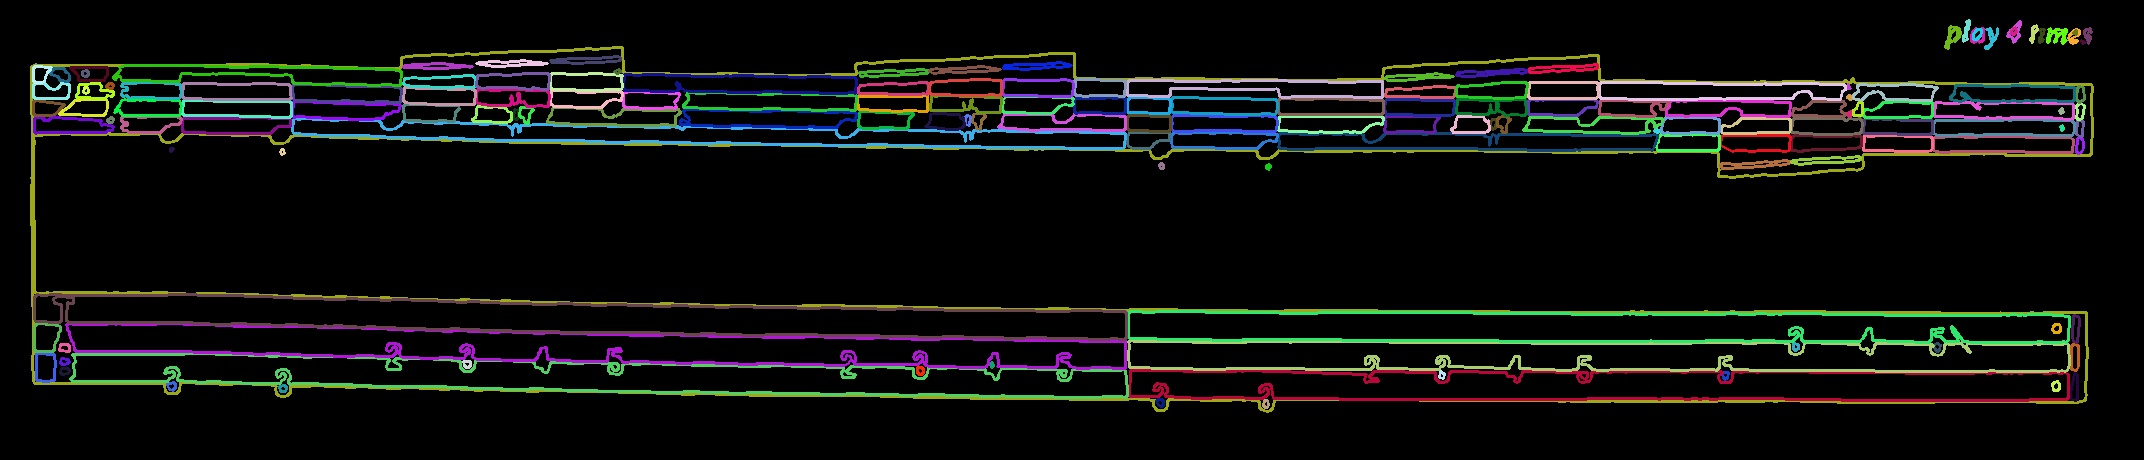
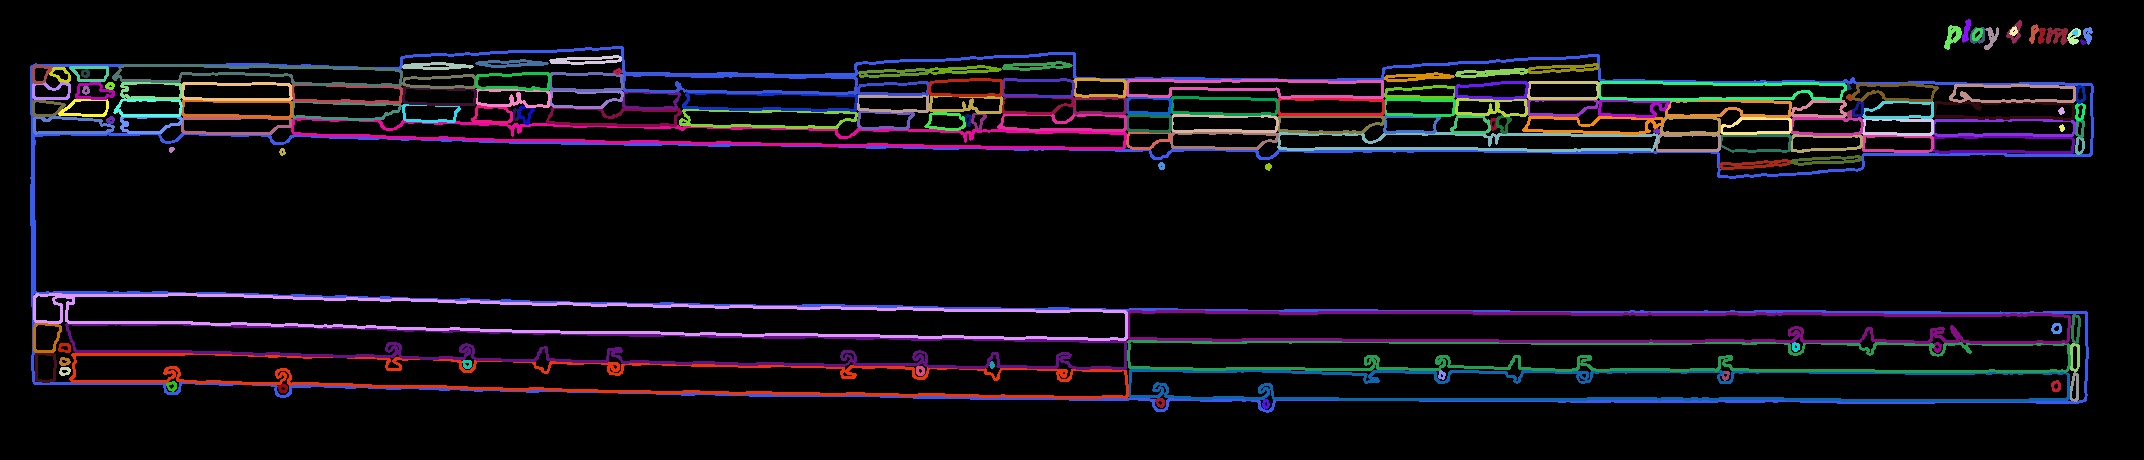
WIP: compatible with python3.7

Changed region(s): [[0.0, 0.0913, 1.0, 0.3957], [0.0, 0.3957, 1.0, 0.913], [0.9062, 0.0304, 1.0, 0.1217]]

diff --git a/blob_detection.py b/blob_detection.py
@@ -1,25 +1,26 @@
+"""
+"""
 import cv2
 import numpy as np
-import sys
 import os
-
-import cPickle as pickle
-
+import pickle
+import sys
 
 TUP_RANGE_PARAMS_RATIO = (0.0, (0, 1), 1000)
 
 
 def get_attribs(params):
-    return [attr for attr in dir(params) if not callable(attr) and not attr.startswith("__")]
+    return [attr for attr in dir(params) if
+            not callable(attr) and not attr.startswith("__")]
 
 
 def print_params(params):
     attribs = get_attribs(params)
     for attr in attribs:
-        print attr, getattr(params, attr)
+        print(attr, getattr(params, attr))
 
 
-class params_for_pickle:
+class ParamsForPickle:
     """Summary
     """
 
@@ -30,7 +31,8 @@ class params_for_pickle:
 
     def __getstate__(self):
         """Return state values to be pickled."""
-        return (dict(zip(self._attr, [getattr(params, attr) for attr in self._attr])))
+        return dict(
+            zip(self._attr, [getattr(params, attr) for attr in self._attr]))
 
     def __setstate__(self, state):
         """Restore state from the unpickled state values."""
@@ -38,7 +40,7 @@ class params_for_pickle:
 
     def create_params(self):
         params = cv2.SimpleBlobDetector_Params()
-        for (attr, value) in self._dict_pickle.iteritems():
+        for (attr, value) in self._dict_pickle.items():
             setattr(params, attr, value)
         return params
 
@@ -69,28 +71,36 @@ def update_TrackBars_From_Params(params, nameWindow, dict_range_params):
         trackbarname_param_min = 'min' + minmax_param
         trackbarname_param_max = 'max' + minmax_param
 
-        current_value, (param_min, param_max), param_remap = dict_range_params.get(minmax_param, TUP_RANGE_PARAMS_RATIO)
+        current_value, (param_min, param_max), param_remap = dict_range_params.get(minmax_param,
+                                                                   TUP_RANGE_PARAMS_RATIO)
         cv2.setTrackbarPos(
             ('%' if param_remap != 1 else '') + trackbarname_param_min,
-            nameWindow, int(getattr(params, trackbarname_param_min) * param_remap)
+            nameWindow,
+            int(getattr(params, trackbarname_param_min) * param_remap)
         )
 
         cv2.setTrackbarPos(
             ('%' if param_remap != 1 else '') + trackbarname_param_max,
-            nameWindow, int(getattr(params, trackbarname_param_max) * param_remap)
+            nameWindow,
+            int(getattr(params, trackbarname_param_max) * param_remap)
         )
 
     for min_param in list_min_only_params:
         trackbarname_param_min = 'min' + minmax_param
 
-        current_value, (param_min, param_max), param_remap = dict_range_params.get(min_param, TUP_RANGE_PARAMS_RATIO)
+        current_value, (
+        param_min, param_max), param_remap = dict_range_params.get(min_param,
+                                                                   TUP_RANGE_PARAMS_RATIO)
         cv2.setTrackbarPos(
             ('%' if param_remap != 1 else '') + trackbarname_param_min,
-            nameWindow, int(getattr(params, trackbarname_param_min) * param_remap)
+            nameWindow,
+            int(getattr(params, trackbarname_param_min) * param_remap)
         )
 
 
-def createTrackBar(params, nameWindow, callback, dict_range_params={}):
+def createTrackBar(params, nameWindow, callback, dict_range_params=None):
+    if dict_range_params is None:
+        dict_range_params = {}
     list_attr = set(get_attribs(params))
     # filters
     list_filters = set([attr for attr in list_attr if 'filterBy' in attr])
@@ -102,16 +112,18 @@ def createTrackBar(params, nameWindow, callback, dict_range_params={}):
     # min (only) parameters
     list_min_only_params = list_min_params.difference(list_max_params)
 
-    print "list_min_only_params:", list_min_only_params
+    print("list_min_only_params:", list_min_only_params)
 
     for filter in list_filters:
-        cv2.createTrackbar(filter, nameWindow, getattr(params, filter), 1, callback)
+        cv2.createTrackbar(filter, nameWindow, getattr(params, filter), 1,
+                           callback)
 
     for minmax_param in list_minmax_params:
         trackbarname_param_min = 'min' + minmax_param
         trackbarname_param_max = 'max' + minmax_param
 
-        current_value, (param_min, param_max), param_remap = dict_range_params.get(minmax_param, TUP_RANGE_PARAMS_RATIO)
+        current_value, (param_min, param_max), param_remap = \
+            dict_range_params.get(minmax_param, TUP_RANGE_PARAMS_RATIO)
         # REMAP
         current_value *= param_remap
         param_min *= param_remap
@@ -128,7 +140,9 @@ def createTrackBar(params, nameWindow, callback, dict_range_params={}):
     for min_param in list_min_only_params:
         trackbarname_param_min = 'min' + min_param
 
-        current_value, (param_min, param_max), param_remap = dict_range_params.get(min_param, TUP_RANGE_PARAMS_RATIO)
+        current_value, (
+        param_min, param_max), param_remap = dict_range_params.get(min_param,
+                                                                   TUP_RANGE_PARAMS_RATIO)
         # REMAP
         current_value *= param_remap
         param_min *= param_remap
@@ -140,7 +154,8 @@ def createTrackBar(params, nameWindow, callback, dict_range_params={}):
 
 
 def updateParams(params, nameWindow, dict_range_params={}):
-    list_attr = set([attr for attr in dir(params) if not callable(attr) and not attr.startswith("__")])
+    list_attr = set([attr for attr in dir(params) if
+                     not callable(attr) and not attr.startswith("__")])
     # filters
     list_filters = set([attr for attr in list_attr if 'filterBy' in attr])
     # min/max parameters
@@ -156,21 +171,34 @@ def updateParams(params, nameWindow, dict_range_params={}):
         setattr(params, filter, bool(cv2.getTrackbarPos(filter, nameWindow)))
 
     for minmax_param in list_minmax_params:
-        current_value, (param_min, param_max), param_remap = dict_range_params.get(minmax_param, (0.5, (0, 1), 1000))
+        current_value, (
+        param_min, param_max), param_remap = dict_range_params.get(minmax_param,
+                                                                   (0.5, (0, 1),
+                                                                    1000))
         min_param = 'min' + minmax_param
         max_param = 'max' + minmax_param
         trackbarname_param_min = ('%' if param_remap != 1 else '') + min_param
         trackbarname_param_max = ('%' if param_remap != 1 else '') + max_param
-        # print trackbarname_param_min, cv2.getTrackbarPos(trackbarname_param_min, nameWindow)
-        setattr(params, min_param, float(cv2.getTrackbarPos(trackbarname_param_min, nameWindow)) / float(param_remap))
-        setattr(params, max_param, float(cv2.getTrackbarPos(trackbarname_param_max, nameWindow)) / float(param_remap))
+        # print(trackbarname_param_min, cv2.getTrackbarPos(
+        #     trackbarname_param_min, nameWindow))
+        setattr(params, min_param, float(
+            cv2.getTrackbarPos(trackbarname_param_min, nameWindow)) / float(
+            param_remap))
+        setattr(params, max_param, float(
+            cv2.getTrackbarPos(trackbarname_param_max, nameWindow)) / float(
+            param_remap))
 
     for min_only_param in list_min_only_params:
-        current_value, (param_min, param_max), param_remap = dict_range_params.get(min_only_param, (0.5, (0, 1), 1000))
+        current_value, (
+        param_min, param_max), param_remap = dict_range_params.get(
+            min_only_param, (0.5, (0, 1), 1000))
         min_param = 'min' + min_only_param
         trackbarname_param_min = ('%' if param_remap != 1 else '') + min_param
         # print min_param, float(cv2.getTrackbarPos(trackbarname_param_min, nameWindow)) / float(param_remap)
-        setattr(params, min_param, int((cv2.getTrackbarPos(trackbarname_param_min, nameWindow)) / float(param_remap)))
+        setattr(params, min_param, int(
+            (cv2.getTrackbarPos(trackbarname_param_min, nameWindow)) / float(
+                param_remap)))
+
 
 #
 # filename = "Page_09_HD.jpg"
@@ -233,23 +261,25 @@ def nothing():
 def save():
     global params
     pickle_filename = filename[:-4] + 'blob_detection.p'
-    print "Write params dict into: ", pickle_filename
-    pickle.dump(params_for_pickle(params), open(pickle_filename, "wb"))
+    print("Write params dict into: ", pickle_filename)
+    pickle.dump(ParamsForPickle(params), open(pickle_filename, "wb"))
 
 
 def load():
     # global params
     pickle_filename = filename[:-4] + 'blob_detection.p'
-    print "Load params dict from: ", pickle_filename
+    print("Load params dict from: ", pickle_filename)
     # url: https://docs.python.org/2/tutorial/errors.html
     try:
         params_from_pickle = pickle.load(open(pickle_filename, "rb"))
     except IOError:
-        print 'cannot open', pickle_filename
+        print('cannot open', pickle_filename)
     else:
         params = params_from_pickle.create_params()
-        update_TrackBars_From_Params(params, nameWindow_Parameters, dict_ranges_params)
+        update_TrackBars_From_Params(params, nameWindow_Parameters,
+                                     dict_ranges_params)
         onChange(None)
+
 
 dict_key_event = {
     27: exit,
@@ -257,7 +287,7 @@ dict_key_event = {
     ord('l'): load
 }
 
-while(1):
+while (1):
     k = cv2.waitKey(1) & 0xFF
     # url: http://www.tutorialspoint.com/python/dictionary_setdefault.htm
     dict_key_event.setdefault(k, nothing)()
@@ -283,7 +313,8 @@ while(1):
         # the size of the circle corresponds to the size of blob
 
         im_with_keypoints = cv2.drawKeypoints(
-            im, keypoints, np.array([]), (0, 0, 255), cv2.DRAW_MATCHES_FLAGS_DRAW_RICH_KEYPOINTS)
+            im, keypoints, np.array([]), (0, 0, 255),
+            cv2.DRAW_MATCHES_FLAGS_DRAW_RICH_KEYPOINTS)
 
         # Show blobs
         cv2.imshow(nameWindow_Results, im_with_keypoints)

diff --git a/threshold_otsu.py b/threshold_otsu.py
@@ -10,6 +10,8 @@ Attributes:
     minThreshold (int): Description
     src (TYPE): Description
 """
+from random import randint
+
 import cv2
 import numpy as np
 
@@ -30,7 +32,7 @@ def findContours(in_img):
     contours, hierarchy = tup_results[len(tup_results) == 3:]
 
     # url: http://opencvpython.blogspot.fr/2013/01/contours-5-hierarchy.html
-    print hierarchy
+    print(hierarchy)
 
     return contours, hierarchy
 
@@ -63,7 +65,9 @@ def draw_contours_2(out_img, contours, thickness=3):
     """
     # url: http://docs.scipy.org/doc/numpy-1.10.1/reference/generated/numpy.random.randint.html
     for i, contour in enumerate(contours):
-        cv2.drawContours(out_img, contours, i, np.random.randint(255, size=3), thickness)
+        cv2.drawContours(out_img, contours, i,
+                         color=[randint(0, 255), randint(0, 255), randint(0, 255)],
+                         thickness=thickness)
 
 
 def draw_contours_3(out_img, contours, thickness=3, minPerimeter=10):
@@ -83,54 +87,65 @@ def draw_contours_3(out_img, contours, thickness=3, minPerimeter=10):
         perimeter = cv2.arcLength(contour, True)
         # print "contours - perimeter= ", perimeter
         if perimeter >= minPerimeter:
-            cv2.drawContours(out_img, contours, i, np.random.randint(255, size=3), thickness)
+            cv2.drawContours(out_img, contours, i,
+                             color=[randint(0, 255), randint(0, 255),
+                                    randint(0, 255)],
+                             thickness=thickness)
 
-#
-# filename = "Page_09_HD.jpg"
-# filename = "Page_09.jpg"
-#
-filename = "Page_09_Pattern_23.png"
-# filename = "Page_09_Pattern_26.png"
 
-src = cv2.imread(filename)
+def main():
+    #
+    # filename = "Page_09_HD.jpg"
+    # filename = "Page_09.jpg"
+    #
+    filename = "Page_09_Pattern_23.png"
+    # filename = "Page_09_Pattern_26.png"
 
-im = src
+    src = cv2.imread(filename)
 
-imgray = cv2.cvtColor(im, cv2.COLOR_BGR2GRAY)
+    im = src
 
-imgray = ~imgray
+    imgray = cv2.cvtColor(im, cv2.COLOR_BGR2GRAY)
 
-# url: http://stackoverflow.com/questions/4292249/automatic-calculation-of-low-and-high-thresholds-for-the-canny-operation-in-open
-# "The Study on An Application of Otsu Method in Canny Operator"
-# - url: http://www.academypublisher.com/proc/isip09/papers/isip09p109.pdf
-# Otsu Thresholding - http://www.labbookpages.co.uk/software/imgProc/otsuThreshold.html
-#
-minThreshold = 0  #
-maxThreshold = 255
-ret, thresh = cv2.threshold(imgray, minThreshold, maxThreshold, cv2.THRESH_BINARY | cv2.THRESH_OTSU)
-print 'ret: ', ret
+    imgray = ~imgray
 
-img_for_contours = thresh.copy()
-contours, hierarchy = findContours(img_for_contours)
-# img_contours = src.copy()
-height, width = src.shape[:2]
-img_contours = np.zeros((height, width, 3), np.uint8)
-# draw_contours(img_contours, contours)
-# draw_contours_2(img_contours, contours, thickness=2)
-draw_contours_3(img_contours, contours, thickness=2, minPerimeter=10)
+    # url: http://stackoverflow.com/questions/4292249/automatic-calculation-of-low-and-high-thresholds-for-the-canny-operation-in-open
+    # "The Study on An Application of Otsu Method in Canny Operator"
+    # - url: http://www.academypublisher.com/proc/isip09/papers/isip09p109.pdf
+    # Otsu Thresholding - http://www.labbookpages.co.uk/software/imgProc/otsuThreshold.html
+    #
+    minThreshold = 0  #
+    maxThreshold = 255
+    ret, thresh = cv2.threshold(imgray, minThreshold, maxThreshold,
+                                cv2.THRESH_BINARY | cv2.THRESH_OTSU)
+    print('ret: ', ret)
 
-# cv2.namedWindow('Thresholding Otsu', cv2.WINDOW_OPENGL)
-# cv2.namedWindow('Thresholding Otsu + findContours', cv2.WINDOW_OPENGL)
-cv2.namedWindow('Thresholding Otsu', cv2.WINDOW_NORMAL)
-cv2.namedWindow('Thresholding Otsu + findContours', cv2.WINDOW_NORMAL)
+    img_for_contours = thresh.copy()
+    contours, hierarchy = findContours(img_for_contours)
+    # img_contours = src.copy()
+    height, width = src.shape[:2]
+    img_contours = np.zeros((height, width, 3), np.uint8)
+    # draw_contours(img_contours, contours)
+    # draw_contours_2(img_contours, contours, thickness=2)
+    draw_contours_3(img_contours, contours, thickness=2, minPerimeter=10)
 
-cv2.imshow('thresh otsu', thresh)
-cv2.imshow('thresh_otsu+findContours', img_contours)
+    # cv2.namedWindow('Thresholding Otsu', cv2.WINDOW_OPENGL)
+    # cv2.namedWindow('Thresholding Otsu + findContours', cv2.WINDOW_OPENGL)
+    cv2.namedWindow('Thresholding Otsu', cv2.WINDOW_NORMAL)
+    cv2.namedWindow('Thresholding Otsu + findContours', cv2.WINDOW_NORMAL)
 
-cv2.imwrite("thresh_otsu_{0}.jpg".format(filename[:-4]), thresh)
-cv2.imwrite("thresh_otsu_findContours_{0}.jpg".format(filename[:-4]), img_contours)
+    cv2.imshow('thresh otsu', thresh)
+    cv2.imshow('thresh_otsu+findContours', img_contours)
 
-while(1):
-    k = cv2.waitKey(1) & 0xFF
-    if k == 27:
-        break
+    cv2.imwrite("thresh_otsu_{0}.jpg".format(filename[:-4]), thresh)
+    cv2.imwrite("thresh_otsu_findContours_{0}.jpg".format(filename[:-4]),
+                img_contours)
+
+    while (1):
+        k = cv2.waitKey(1) & 0xFF
+        if k == 27:
+            break
+
+
+if __name__ == '__main__':
+    main()
